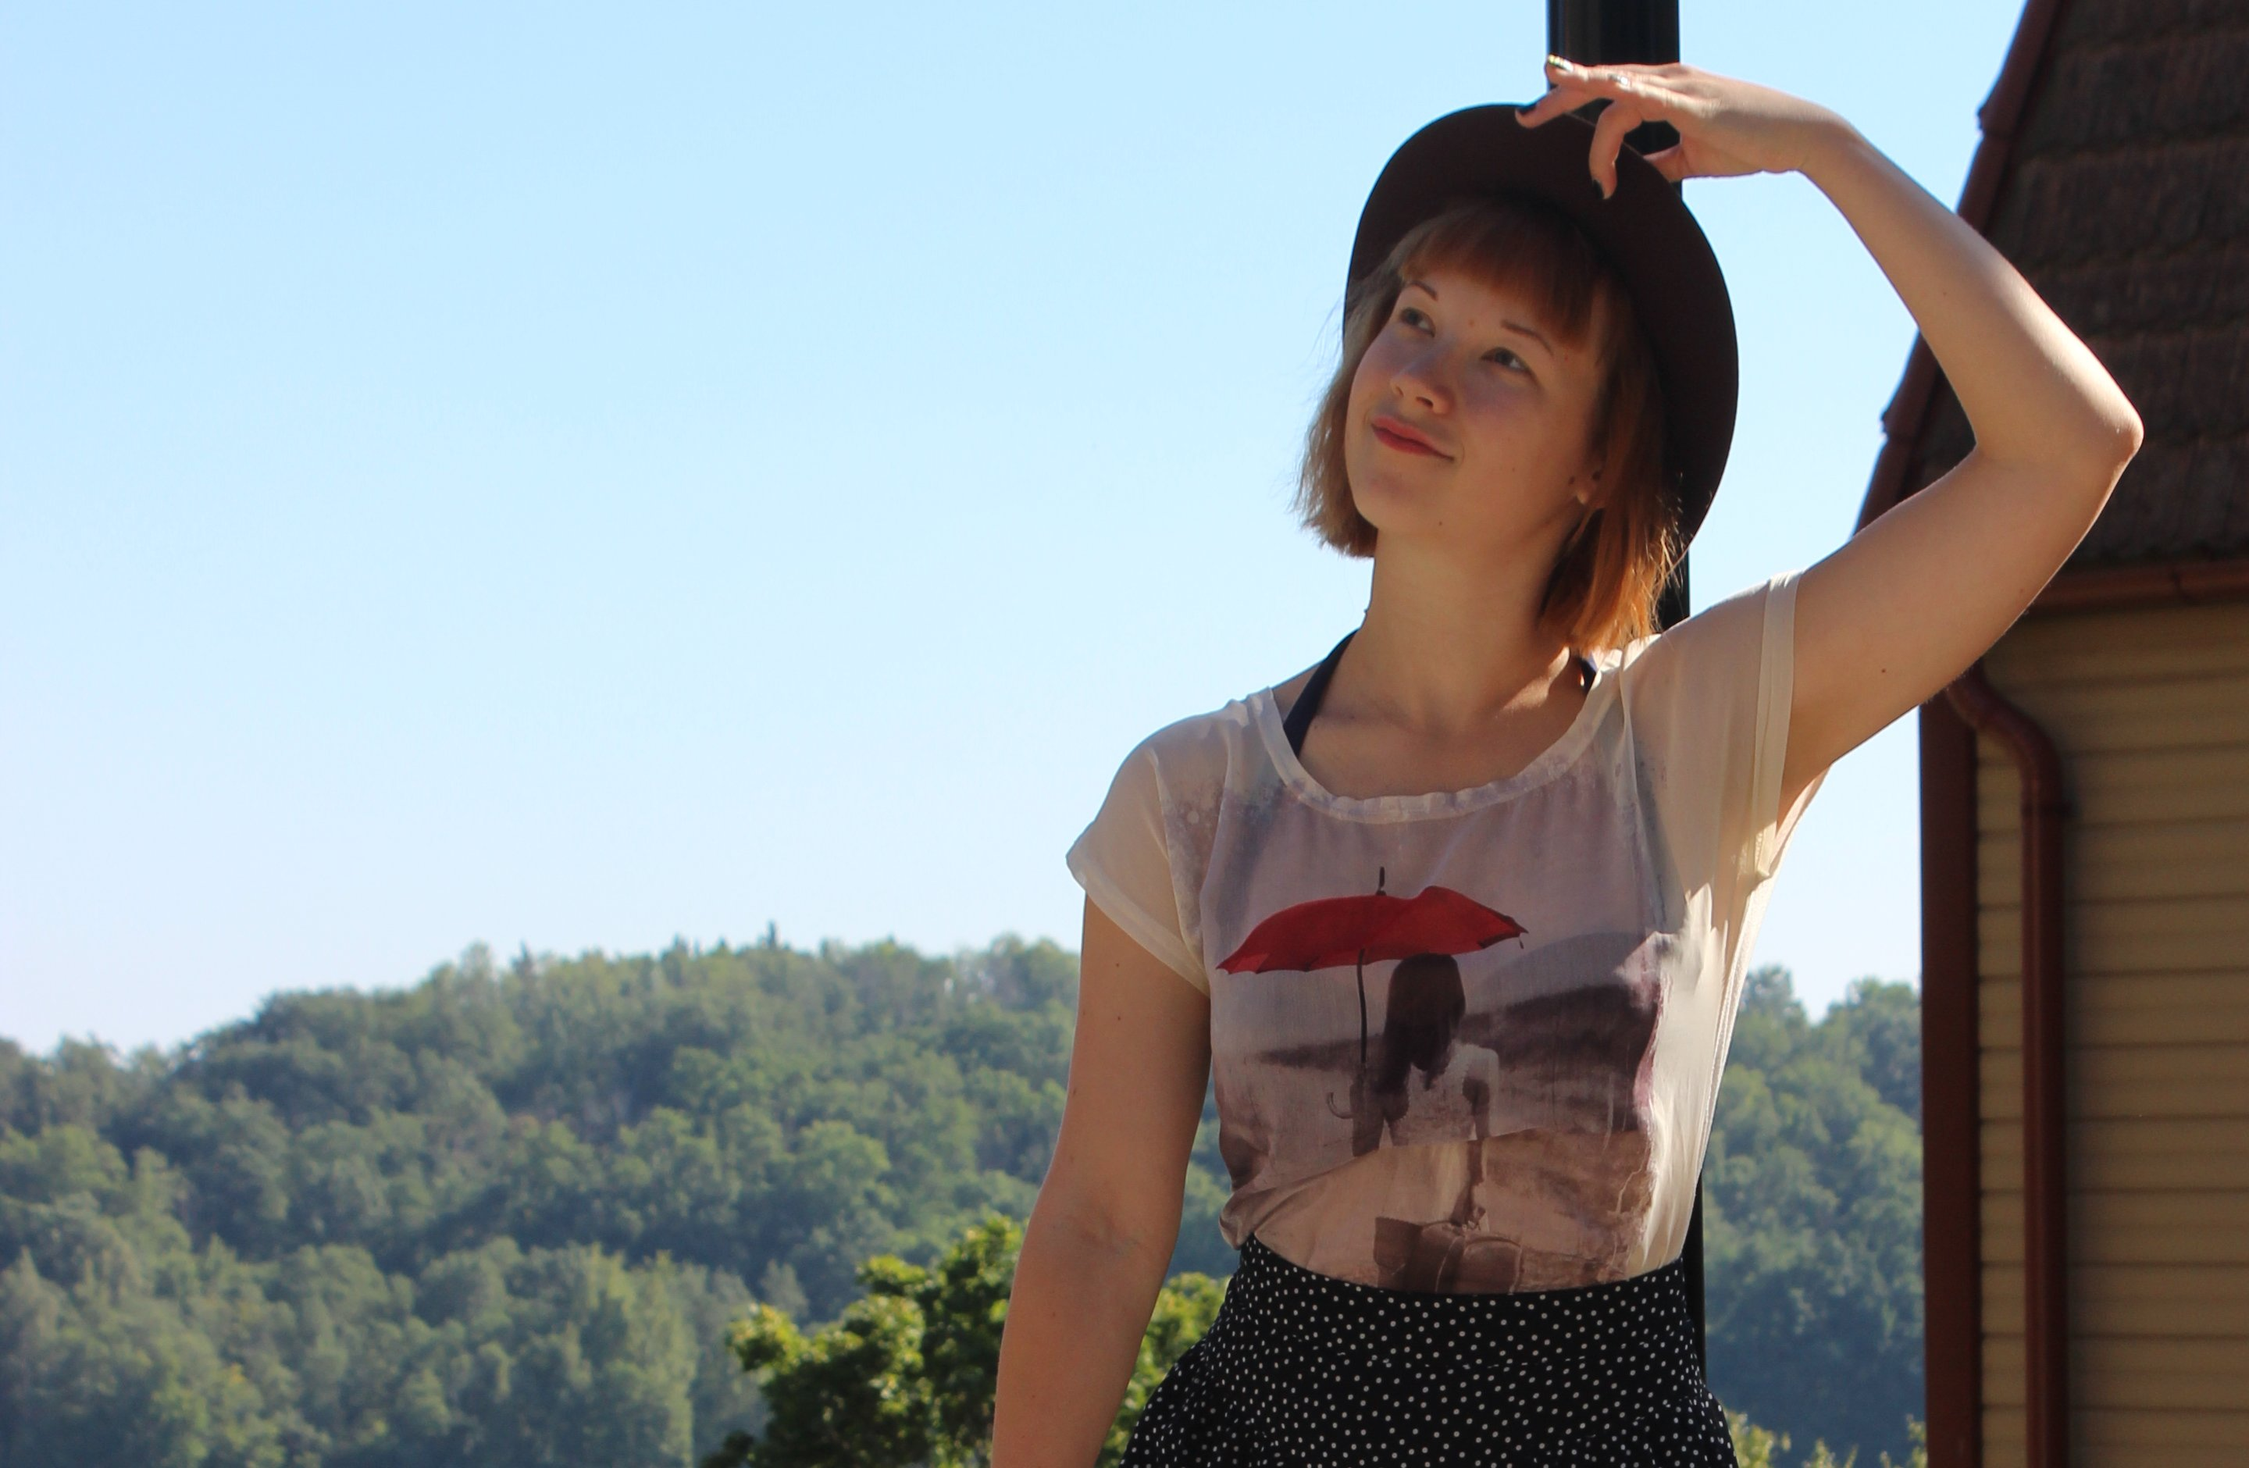
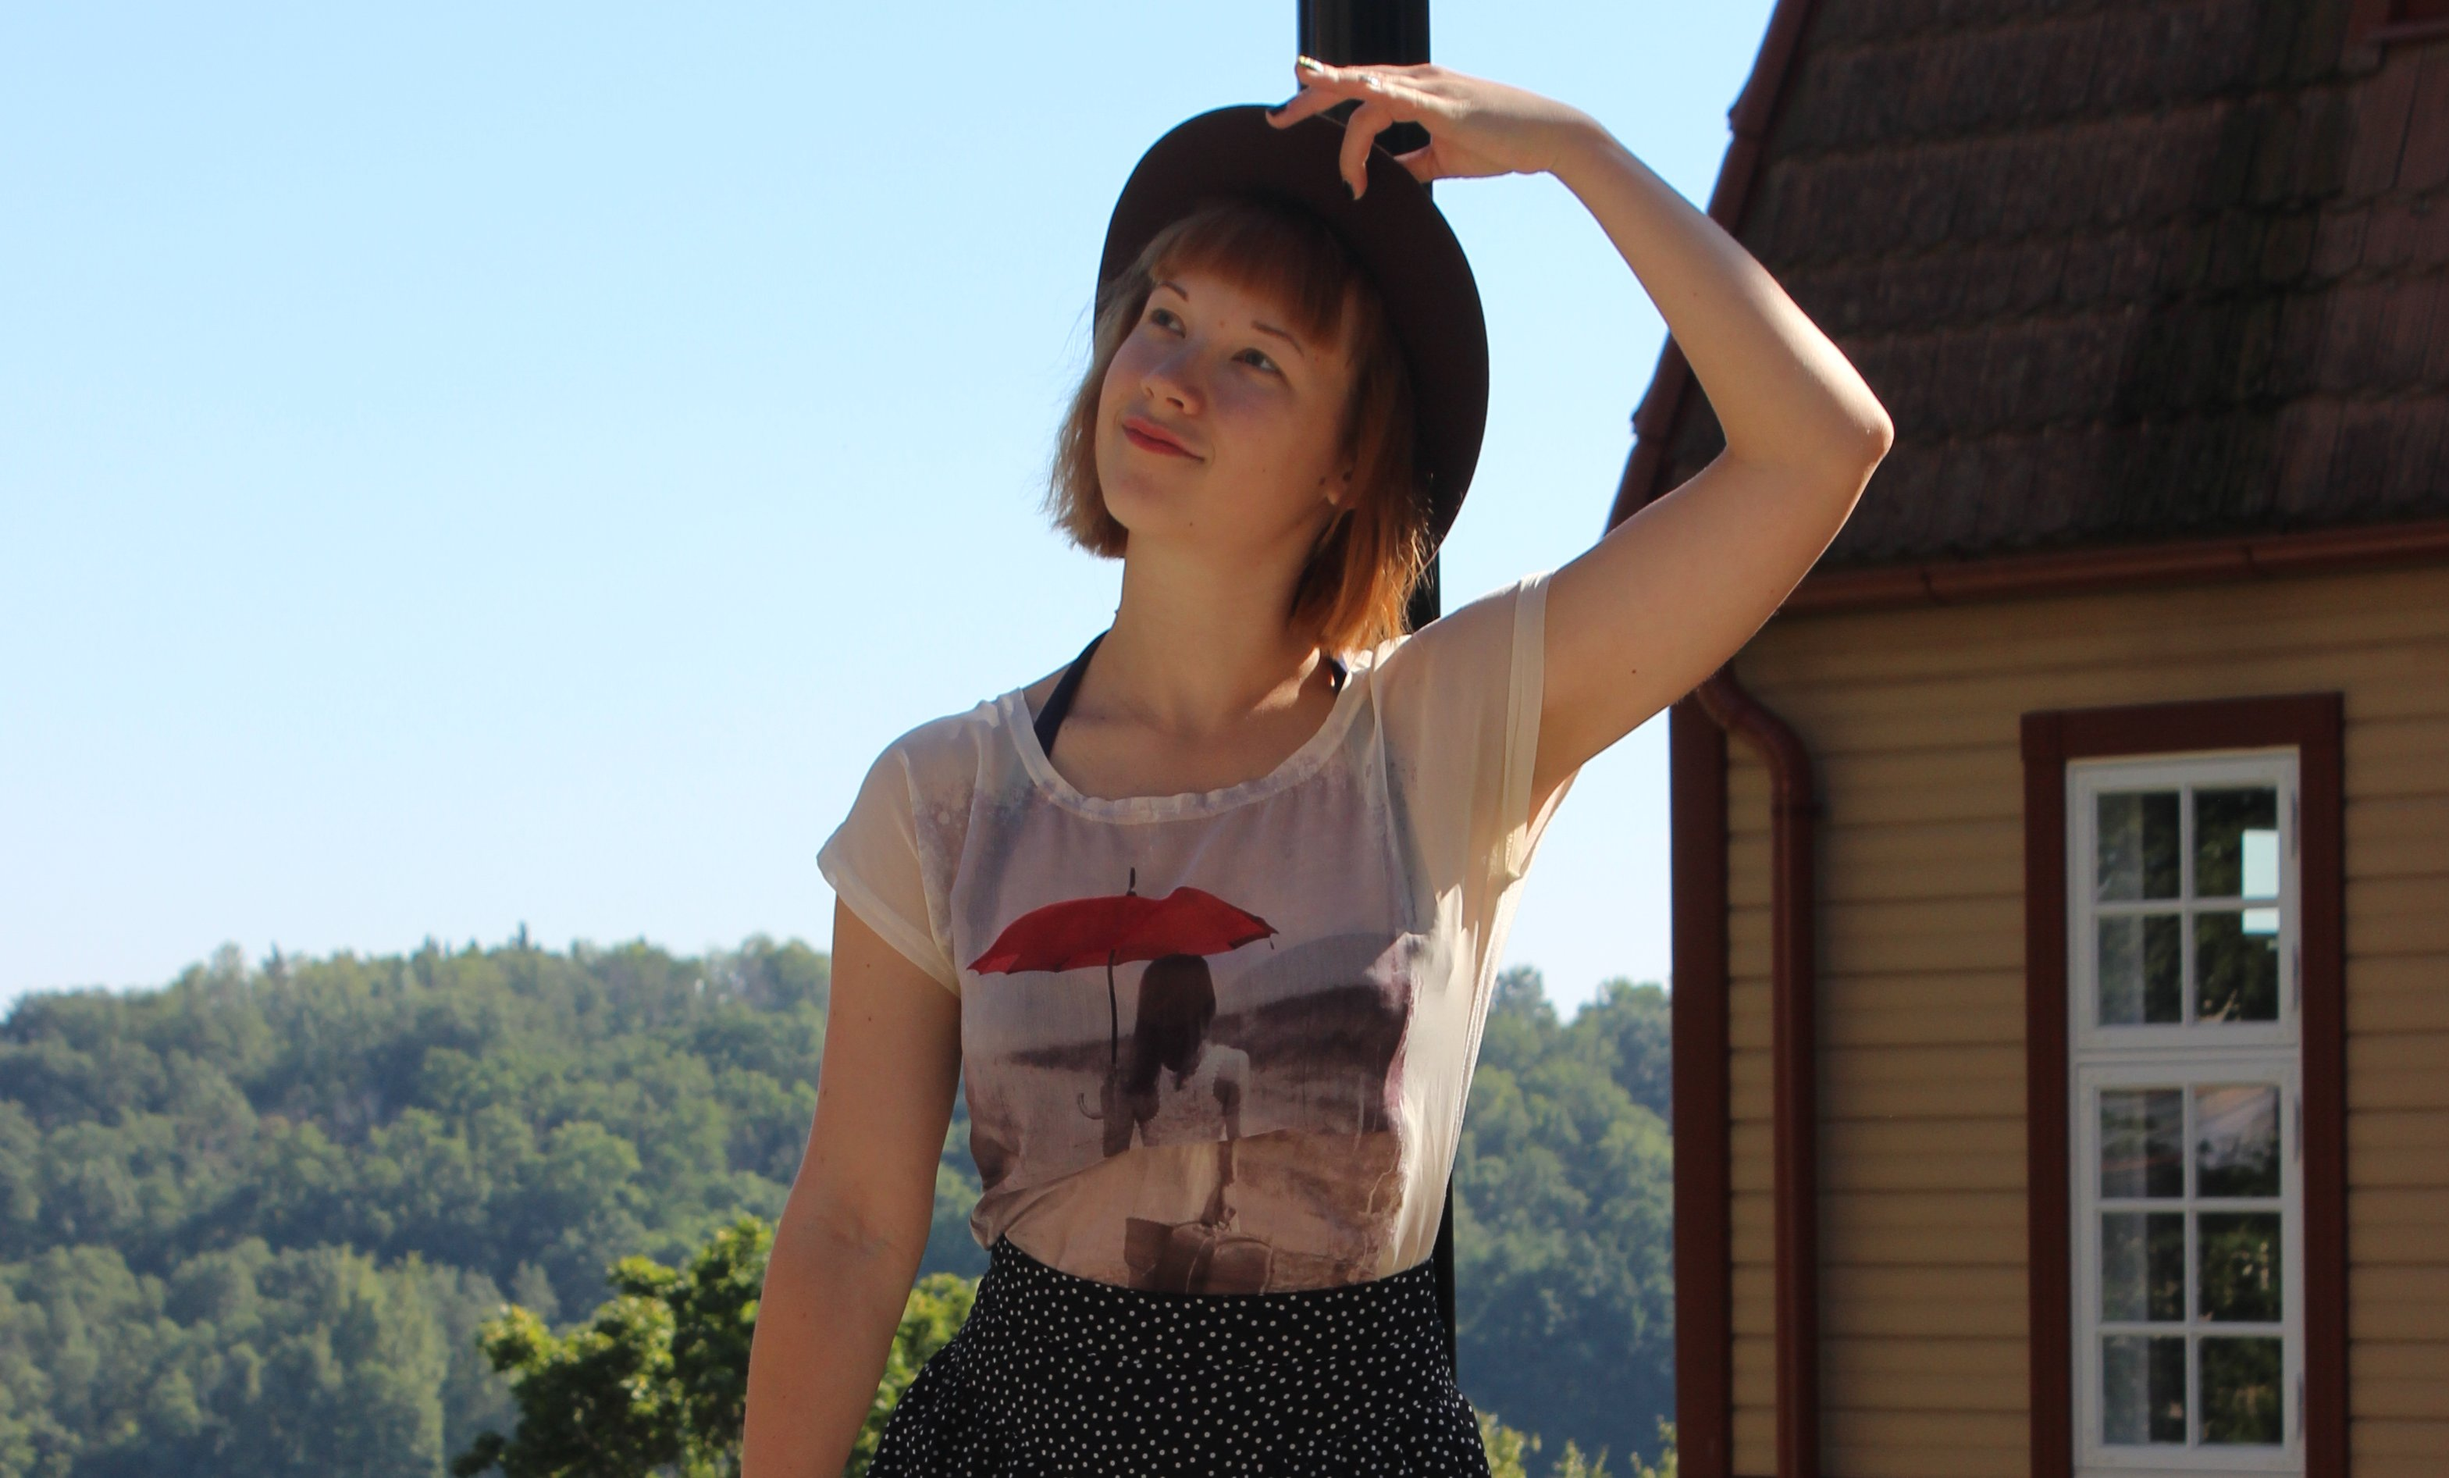
Update background image.

diff --git a/assets/css/main.css b/assets/css/main.css
@@ -3001,9 +3001,9 @@
 /* Intro */
 
 	#intro {
-		background: url("../../images/background2.jpg");
+		background: url("../../images/background.jpg");
 		background-size: cover;		
-		background-position: right top;
+		background-position: top center;
 		background-repeat: no-repeat;
 	}
 
